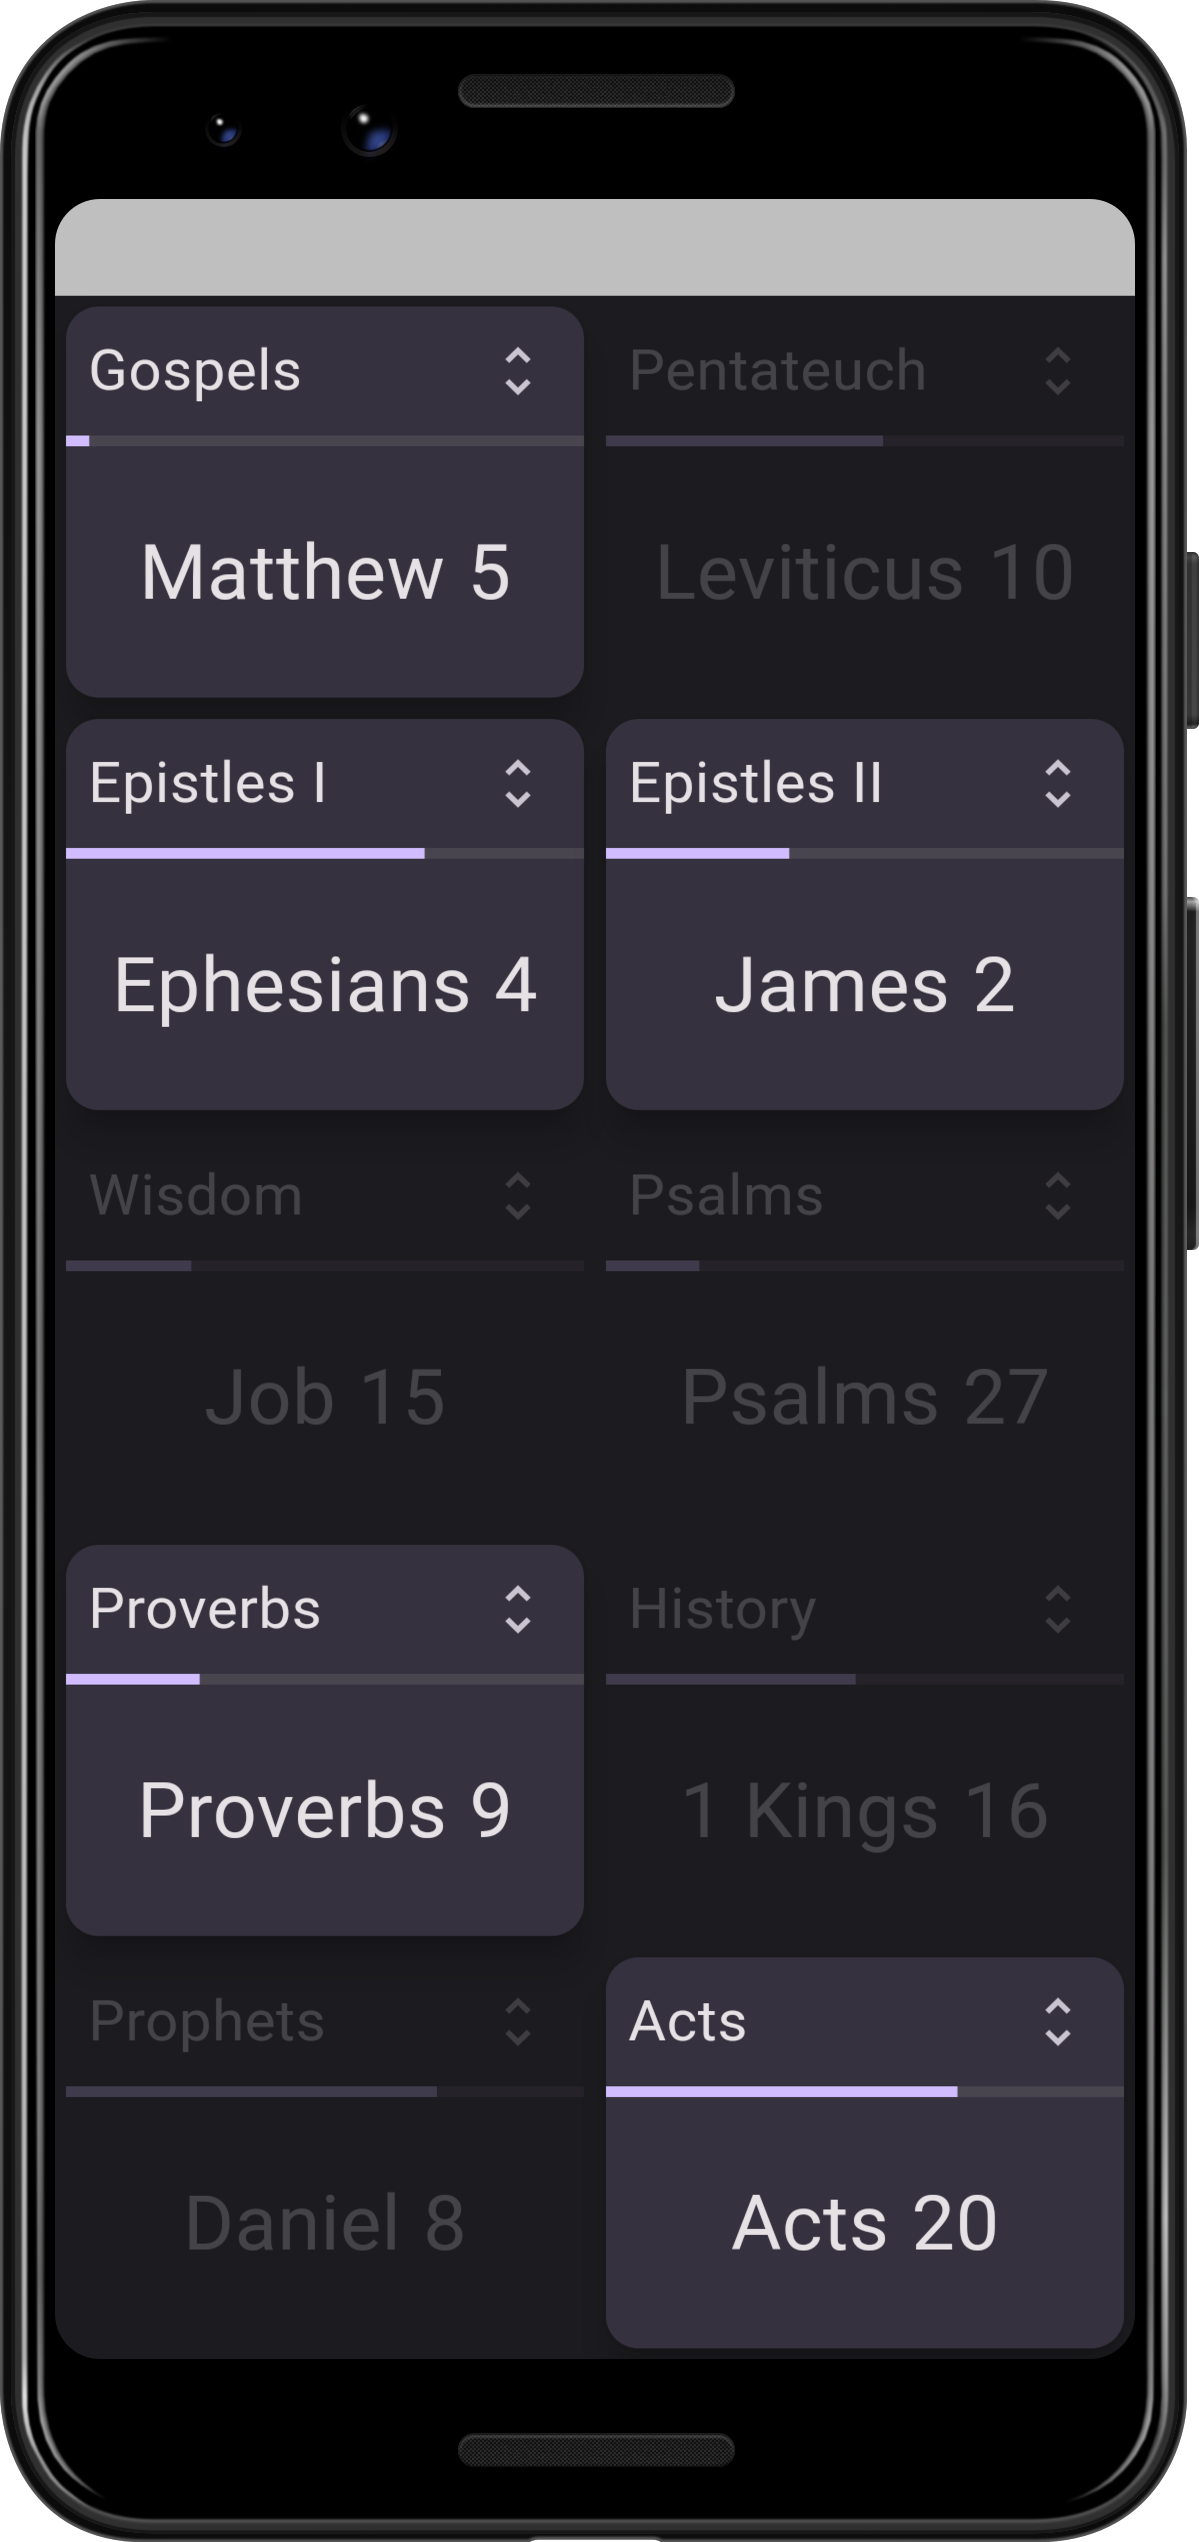
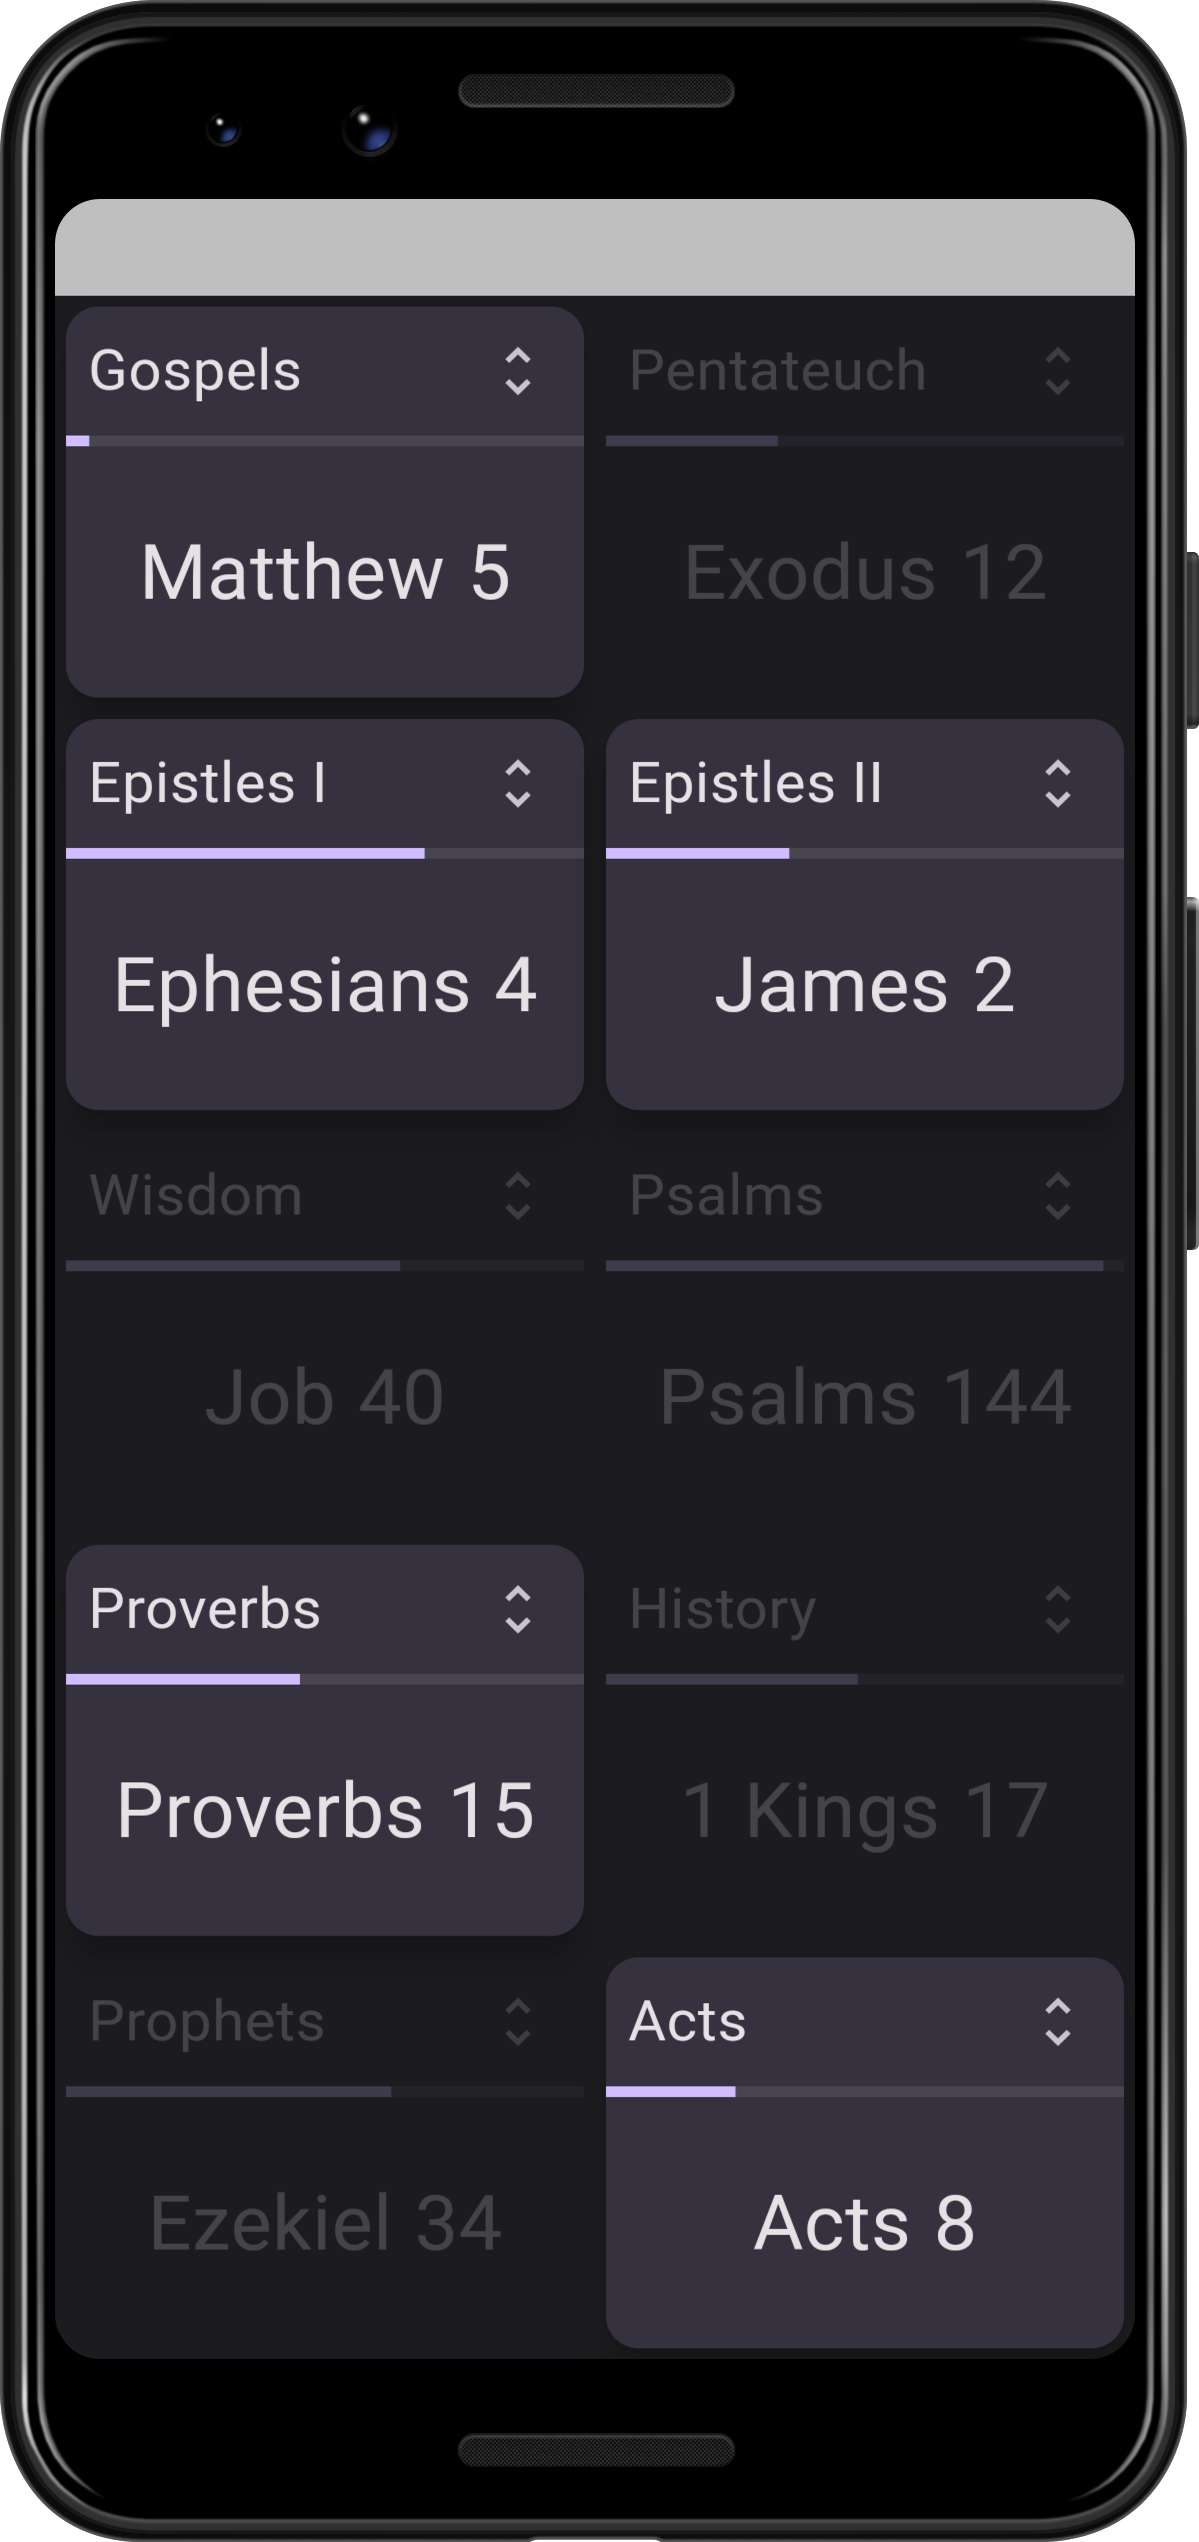
amend state for screenshots
.

.

diff --git a/integration_test/main_test.dart b/integration_test/main_test.dart
@@ -19,11 +19,11 @@ void main() {
   testWidgets('main', (t) async {
     void setState() {
       var bookChapterState = [
-      [0, 5], [2, 10],
+      [0, 5], [1, 12],
       [4, 4], [6, 2],
-      [0, 15], [0, 27],
-      [0, 9], [5, 16],
-      [4, 8], [0, 20]
+      [0, 40], [0, 144],
+      [0, 15], [5, 17],
+      [3, 34], [0, 8]
       ];
       var chaptersReadState = [
         0, 1,
